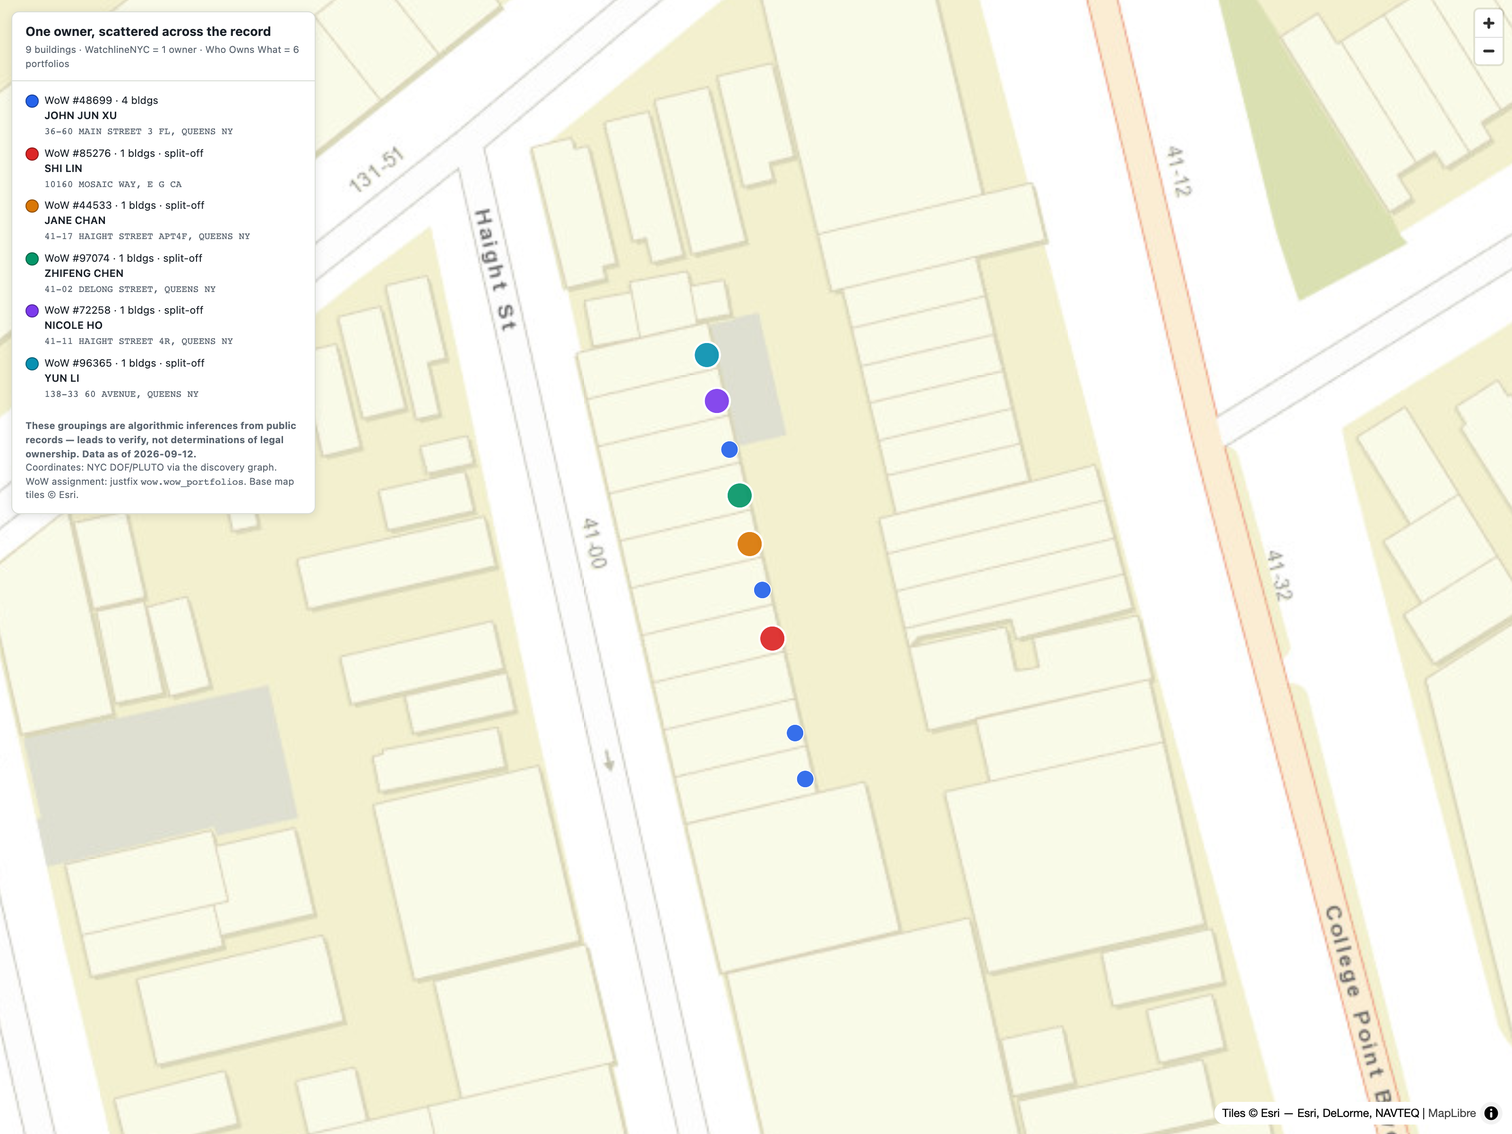
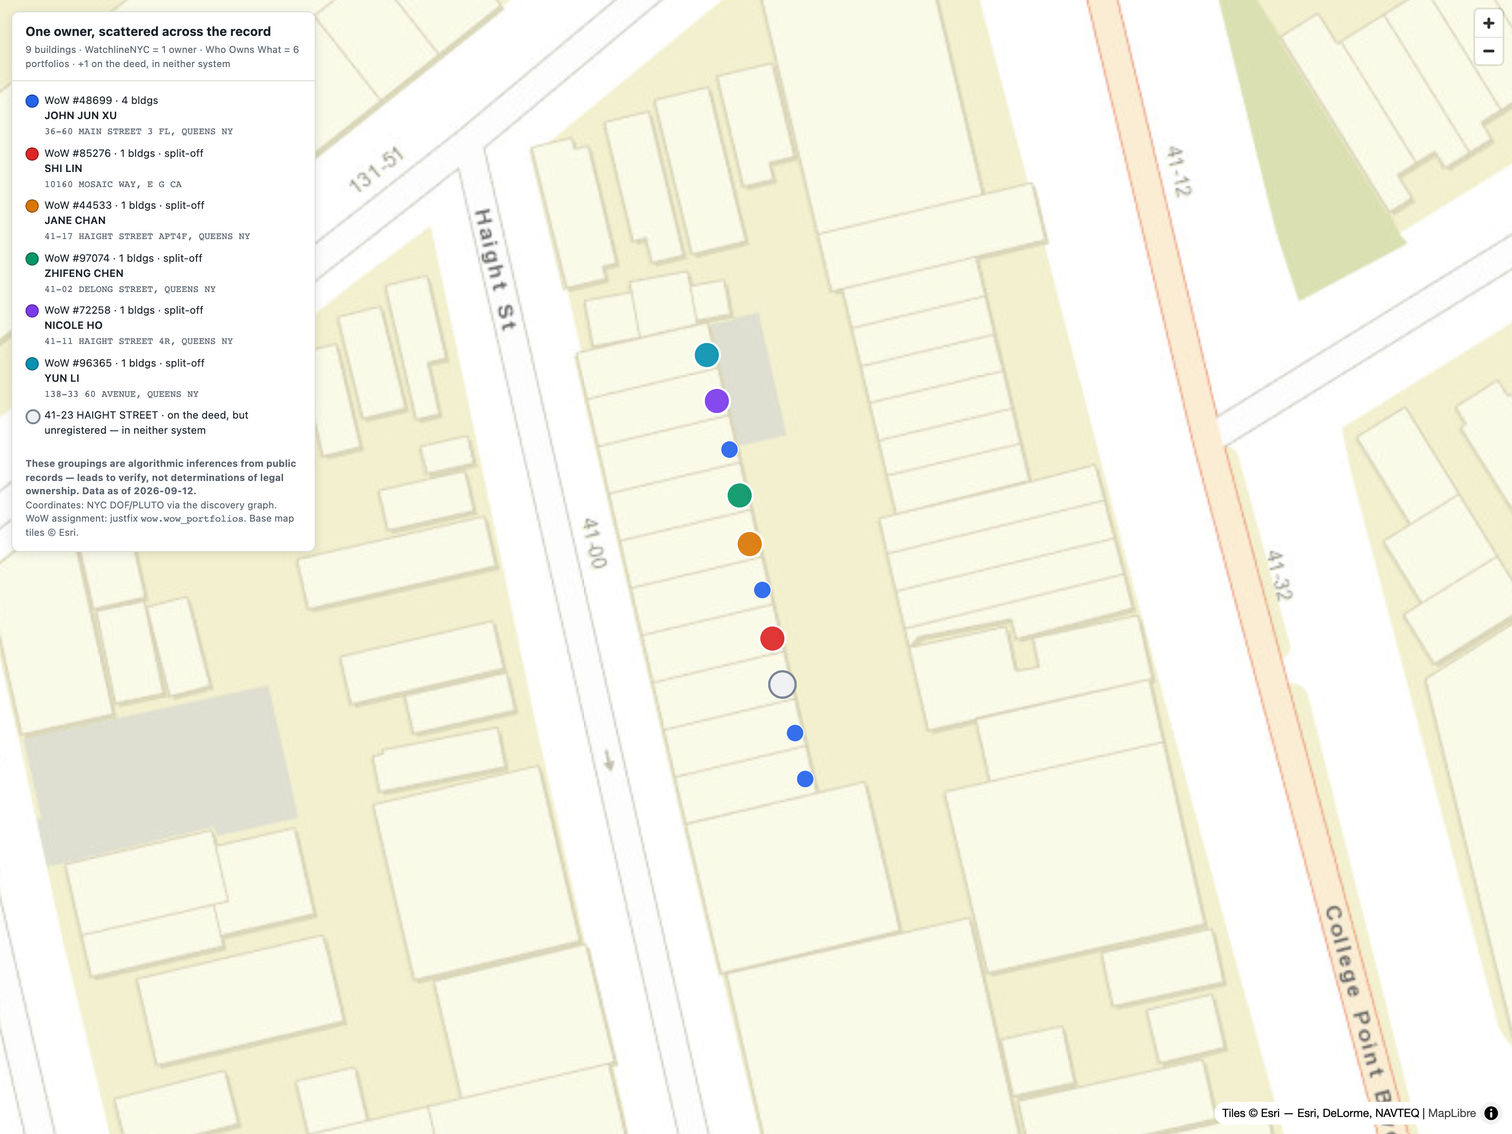
docs: correct Haight to 10 townhouses (9 reunited) + show the recall miss on the map
The 2020 bulk deed conveyed TEN parcels, not nine — the earlier count came
from a fixed 9-bbl list that had already omitted lot 47. Corrections across
the case page, the deck demo slide, and the map: the deed = 10 townhouses
/ $18.6M; Watchline reunites 9 of 10; the 10th (41-23) is unregistered, so
it has no landlord node for the deed link to attach to and slips through
BOTH systems. The regenerated map overlays 41-23 as a ghosted "in neither
system" dot mid-row. Common ownership stays an inference — a lead, not a
verdict.

Changed region(s): [[0.0, 0.3438, 0.2188, 0.5], [0.5, 0.5938, 0.5312, 0.625]]

diff --git a/docs/maps/haight.html b/docs/maps/haight.html
@@ -33,7 +33,7 @@
 <body>
 <div id="map"></div>
 <div class="card">
-  <h1>One owner, scattered across the record<small>9 buildings · WatchlineNYC = 1 owner · Who Owns What = 6 portfolios</small></h1>
+  <h1>One owner, scattered across the record<small>9 buildings · WatchlineNYC = 1 owner · Who Owns What = 6 portfolios · +1 on the deed, in neither system</small></h1>
   <div class="toggle">
     <button id="b-wl" class="on" onclick="setView('wl')">WatchlineNYC</button>
     <button id="b-wow" onclick="setView('wow')">Who Owns What</button>
@@ -43,14 +43,17 @@
     WoW assignment: justfix <code>wow.wow_portfolios</code>. Base map tiles © Esri.</div>
 </div>
 <script>
-const DATA = {"type": "FeatureCollection", "features": [{"type": "Feature", "geometry": {"type": "Point", "coordinates": [-73.833991, 40.7551451]}, "properties": {"bbl": "4050630045", "address": "41-27 HAIGHT STREET", "bldgclass": "S4", "units": 4, "year": 2015, "owner": "41 HAIGHT STREET TOWNHOUSE OWNER, LLC", "officer": "JOHN JUN XU", "bizaddr": "3660 MAIN STREET 3FLOOR, Flushing NY 11354", "wow_pf": "48699", "wow_color": "#2563eb", "stray": false}}, {"type": "Feature", "geometry": {"type": "Point", "coordinates": [-73.8340054, 40.7551945]}, "properties": {"bbl": "4050630046", "address": "41-25 HAIGHT STREET", "bldgclass": "S4", "units": 4, "year": 2015, "owner": "41 HAIGHT GROUP LLC", "officer": "JOHN JUN XU", "bizaddr": "3660 MAIN STREET 3FLOOR, Flushing NY 11354", "wow_pf": "48699", "wow_color": "#2563eb", "stray": false}}, {"type": "Feature", "geometry": {"type": "Point", "coordinates": [-73.8340376, 40.7552961]}, "properties": {"bbl": "4050630048", "address": "41-21 HAIGHT STREET", "bldgclass": "S4", "units": 4, "year": 2015, "owner": "888 HAIGHT LLC", "officer": "Shi Lin", "bizaddr": "10160 MOSAIC WAY, Elk Grove CA 95757", "wow_pf": "85276", "wow_color": "#dc2626", "stray": true}}, {"type": "Feature", "geometry": {"type": "Point", "coordinates": [-73.8340519, 40.7553483]}, "properties": {"bbl": "4050630049", "address": "41-19 HAIGHT STREET", "bldgclass": "S4", "units": 4, "year": 2015, "owner": "41-19 LIYANG INC.", "officer": "JOHN JUN XU", "bizaddr": "3660 MAIN STREET 3FLOOR, Flushing NY 11354", "wow_pf": "48699", "wow_color": "#2563eb", "stray": false}}, {"type": "Feature", "geometry": {"type": "Point", "coordinates": [-73.8340698, 40.7553977]}, "properties": {"bbl": "4050630050", "address": "41-17 HAIGHT STREET", "bldgclass": "S4", "units": 4, "year": 2015, "owner": "C & L 17 FAMILY LLC", "officer": "Jane Chan", "bizaddr": "41-17 HAIGHT STREET APT4F, Flushing NY 11355", "wow_pf": "44533", "wow_color": "#d97706", "stray": true}}, {"type": "Feature", "geometry": {"type": "Point", "coordinates": [-73.8340841, 40.7554499]}, "properties": {"bbl": "4050630051", "address": "41-15 HAIGHT STREET", "bldgclass": "S4", "units": 4, "year": 2015, "owner": "4115 HAIGHT ST INC.", "officer": "ZHIFENG CHEN", "bizaddr": "41-02 DELONG STREET, FLUSHINg NY 11355", "wow_pf": "97074", "wow_color": "#059669", "stray": true}}, {"type": "Feature", "geometry": {"type": "Point", "coordinates": [-73.8340984, 40.7554993]}, "properties": {"bbl": "4050630052", "address": "41-13 HAIGHT STREET", "bldgclass": "S4", "units": 4, "year": 2015, "owner": "AVERY AVENUE 168 LLC", "officer": "JOHN JUN XU", "bizaddr": "3660 MAIN STREET 3FLOOR, Flushing NY 11354", "wow_pf": "48699", "wow_color": "#2563eb", "stray": false}}, {"type": "Feature", "geometry": {"type": "Point", "coordinates": [-73.8341164, 40.7555515]}, "properties": {"bbl": "4050630053", "address": "41-11 HAIGHT STREET", "bldgclass": "S4", "units": 4, "year": 2015, "owner": "HT ELEVEN REALTY LLC", "officer": "NICOLE HO", "bizaddr": "41-11 HAIGHT STREET 4R, Flushing NY 11355", "wow_pf": "72258", "wow_color": "#7c3aed", "stray": true}}, {"type": "Feature", "geometry": {"type": "Point", "coordinates": [-73.8341307, 40.7556009]}, "properties": {"bbl": "4050630055", "address": "41-09 HAIGHT STREET", "bldgclass": "S4", "units": 4, "year": 2015, "owner": "NEW YUN REALTY LLC", "officer": "YUN LI", "bizaddr": "13833 60TH AVENUE, Flushing NY 11355", "wow_pf": "96365", "wow_color": "#0891b2", "stray": true}}]};
+const DATA = {"type": "FeatureCollection", "features": [{"type": "Feature", "geometry": {"type": "Point", "coordinates": [-73.833991, 40.7551451]}, "properties": {"bbl": "4050630045", "address": "41-27 HAIGHT STREET", "bldgclass": "S4", "units": 4, "year": 2015, "owner": "41 HAIGHT STREET TOWNHOUSE OWNER, LLC", "officer": "JOHN JUN XU", "bizaddr": "3660 MAIN STREET 3FLOOR, Flushing NY 11354", "wow_pf": "48699", "wow_color": "#2563eb", "stray": false, "flagged": false, "flag_note": ""}}, {"type": "Feature", "geometry": {"type": "Point", "coordinates": [-73.8340054, 40.7551945]}, "properties": {"bbl": "4050630046", "address": "41-25 HAIGHT STREET", "bldgclass": "S4", "units": 4, "year": 2015, "owner": "41 HAIGHT GROUP LLC", "officer": "JOHN JUN XU", "bizaddr": "3660 MAIN STREET 3FLOOR, Flushing NY 11354", "wow_pf": "48699", "wow_color": "#2563eb", "stray": false, "flagged": false, "flag_note": ""}}, {"type": "Feature", "geometry": {"type": "Point", "coordinates": [-73.8340376, 40.7552961]}, "properties": {"bbl": "4050630048", "address": "41-21 HAIGHT STREET", "bldgclass": "S4", "units": 4, "year": 2015, "owner": "888 HAIGHT LLC", "officer": "Shi Lin", "bizaddr": "10160 MOSAIC WAY, Elk Grove CA 95757", "wow_pf": "85276", "wow_color": "#dc2626", "stray": true, "flagged": false, "flag_note": ""}}, {"type": "Feature", "geometry": {"type": "Point", "coordinates": [-73.8340519, 40.7553483]}, "properties": {"bbl": "4050630049", "address": "41-19 HAIGHT STREET", "bldgclass": "S4", "units": 4, "year": 2015, "owner": "41-19 LIYANG INC.", "officer": "JOHN JUN XU", "bizaddr": "3660 MAIN STREET 3FLOOR, Flushing NY 11354", "wow_pf": "48699", "wow_color": "#2563eb", "stray": false, "flagged": false, "flag_note": ""}}, {"type": "Feature", "geometry": {"type": "Point", "coordinates": [-73.8340698, 40.7553977]}, "properties": {"bbl": "4050630050", "address": "41-17 HAIGHT STREET", "bldgclass": "S4", "units": 4, "year": 2015, "owner": "C & L 17 FAMILY LLC", "officer": "Jane Chan", "bizaddr": "41-17 HAIGHT STREET APT4F, Flushing NY 11355", "wow_pf": "44533", "wow_color": "#d97706", "stray": true, "flagged": false, "flag_note": ""}}, {"type": "Feature", "geometry": {"type": "Point", "coordinates": [-73.8340841, 40.7554499]}, "properties": {"bbl": "4050630051", "address": "41-15 HAIGHT STREET", "bldgclass": "S4", "units": 4, "year": 2015, "owner": "4115 HAIGHT ST INC.", "officer": "ZHIFENG CHEN", "bizaddr": "41-02 DELONG STREET, FLUSHINg NY 11355", "wow_pf": "97074", "wow_color": "#059669", "stray": true, "flagged": false, "flag_note": ""}}, {"type": "Feature", "geometry": {"type": "Point", "coordinates": [-73.8340984, 40.7554993]}, "properties": {"bbl": "4050630052", "address": "41-13 HAIGHT STREET", "bldgclass": "S4", "units": 4, "year": 2015, "owner": "AVERY AVENUE 168 LLC", "officer": "JOHN JUN XU", "bizaddr": "3660 MAIN STREET 3FLOOR, Flushing NY 11354", "wow_pf": "48699", "wow_color": "#2563eb", "stray": false, "flagged": false, "flag_note": ""}}, {"type": "Feature", "geometry": {"type": "Point", "coordinates": [-73.8341164, 40.7555515]}, "properties": {"bbl": "4050630053", "address": "41-11 HAIGHT STREET", "bldgclass": "S4", "units": 4, "year": 2015, "owner": "HT ELEVEN REALTY LLC", "officer": "NICOLE HO", "bizaddr": "41-11 HAIGHT STREET 4R, Flushing NY 11355", "wow_pf": "72258", "wow_color": "#7c3aed", "stray": true, "flagged": false, "flag_note": ""}}, {"type": "Feature", "geometry": {"type": "Point", "coordinates": [-73.8341307, 40.7556009]}, "properties": {"bbl": "4050630055", "address": "41-09 HAIGHT STREET", "bldgclass": "S4", "units": 4, "year": 2015, "owner": "NEW YUN REALTY LLC", "officer": "YUN LI", "bizaddr": "13833 60TH AVENUE, Flushing NY 11355", "wow_pf": "96365", "wow_color": "#0891b2", "stray": true, "flagged": false, "flag_note": ""}}, {"type": "Feature", "geometry": {"type": "Point", "coordinates": [-73.8340233, 40.7552467]}, "properties": {"bbl": "4050630047", "address": "41-23 HAIGHT STREET", "bldgclass": "S4", "units": 4, "year": 2015, "owner": "41-23 L&Y INC.", "officer": "\u2014", "bizaddr": "\u2014", "wow_pf": "\u2014", "wow_color": "#9ca3af", "stray": true, "flagged": true, "flag_note": "on the deed, but unregistered \u2014 in neither system"}}]};
 const WL_COLOR = "#2563eb";
-const LEGEND = {wl: `<div class="row"><span class="dot" style="background:#2563eb"></span>One owner · 9 buildings</div>`, wow: `<div class="row"><span class="dot" style="background:#2563eb"></span>WoW #48699 · 4 bldgs<br><span class="nm">JOHN JUN XU</span><br><span class="addr">36-60 MAIN STREET 3 FL, QUEENS NY</span></div>
+const FLAG_FILL = "#eef0f3", FLAG_STROKE = "#7a8595";   // context-only buildings (in neither system)
+const LEGEND = {wl: `<div class="row"><span class="dot" style="background:#2563eb"></span>One owner · 9 buildings</div>
+<div class="row"><span class="dot" style="background:#eef0f3;border:2px solid #7a8595"></span>41-23 HAIGHT STREET · on the deed, but unregistered — in neither system</div>`, wow: `<div class="row"><span class="dot" style="background:#2563eb"></span>WoW #48699 · 4 bldgs<br><span class="nm">JOHN JUN XU</span><br><span class="addr">36-60 MAIN STREET 3 FL, QUEENS NY</span></div>
 <div class="row"><span class="dot" style="background:#dc2626"></span>WoW #85276 · 1 bldgs · split-off<br><span class="nm">SHI LIN</span><br><span class="addr">10160 MOSAIC WAY, E G CA</span></div>
 <div class="row"><span class="dot" style="background:#d97706"></span>WoW #44533 · 1 bldgs · split-off<br><span class="nm">JANE CHAN</span><br><span class="addr">41-17 HAIGHT STREET APT4F, QUEENS NY</span></div>
 <div class="row"><span class="dot" style="background:#059669"></span>WoW #97074 · 1 bldgs · split-off<br><span class="nm">ZHIFENG CHEN</span><br><span class="addr">41-02 DELONG STREET, QUEENS NY</span></div>
 <div class="row"><span class="dot" style="background:#7c3aed"></span>WoW #72258 · 1 bldgs · split-off<br><span class="nm">NICOLE HO</span><br><span class="addr">41-11 HAIGHT STREET 4R, QUEENS NY</span></div>
-<div class="row"><span class="dot" style="background:#0891b2"></span>WoW #96365 · 1 bldgs · split-off<br><span class="nm">YUN LI</span><br><span class="addr">138-33 60 AVENUE, QUEENS NY</span></div>`};
+<div class="row"><span class="dot" style="background:#0891b2"></span>WoW #96365 · 1 bldgs · split-off<br><span class="nm">YUN LI</span><br><span class="addr">138-33 60 AVENUE, QUEENS NY</span></div>
+<div class="row"><span class="dot" style="background:#eef0f3;border:2px solid #7a8595"></span>41-23 HAIGHT STREET · on the deed, but unregistered — in neither system</div>`};
 const DEFAULT_VIEW = "wl";   // which view opens first: "wl" (single) or "wow" (split)
 
 const map = new maplibregl.Map({
@@ -64,14 +67,16 @@ function setView(v){
   document.getElementById("b-wl").classList.toggle("on", v==="wl");
   document.getElementById("b-wow").classList.toggle("on", v==="wow");
   document.getElementById("legend").innerHTML = LEGEND[v];
-  const color = v==="wl" ? WL_COLOR : ["get","wow_color"];
+  const base = v==="wl" ? WL_COLOR : ["get","wow_color"];
+  const color = ["case",["get","flagged"], FLAG_FILL, base];
   const radius = v==="wow"
     ? ["interpolate",["linear"],["zoom"], 10,["case",["get","stray"],7,5], 15,["case",["get","stray"],13,9]]
     : ["interpolate",["linear"],["zoom"], 10,5, 15,9];
-  const stroke = v==="wow" ? ["case",["get","stray"],2.2,1] : 1;
+  const stroke = ["case",["get","flagged"],2.4, (v==="wow" ? ["case",["get","stray"],2.2,1] : 1)];
   map.setPaintProperty("pts","circle-color",color);
   map.setPaintProperty("pts","circle-radius",radius);
   map.setPaintProperty("pts","circle-stroke-width",stroke);
+  map.setPaintProperty("pts","circle-stroke-color",["case",["get","flagged"], FLAG_STROKE, "#fff"]);
 }
 
 map.on("load", ()=>{
@@ -91,14 +96,18 @@ map.on("load", ()=>{
   map.on("mousemove","pts",e=>{
     map.getCanvas().style.cursor="pointer";
     const p = e.features[0].properties;
+    const flagged = (p.flagged===true||p.flagged==="true");
     const stray = (p.stray===true||p.stray==="true") ? ' <span class="tag">split-off</span>' : '';
+    const lastRow = flagged
+      ? `<div class="mrow" style="color:#7a8595">${p.flag_note}</div>`
+      : `<div class="mrow">WoW portfolio: ${p.wow_pf}${stray}</div>`;
     tip.setLngLat(e.lngLat).setHTML(
       `<b>${p.address}</b><br><span class="pp">BBL ${p.bbl}</span>`+
       `<div class="mrow">class ${p.bldgclass} · ${p.units} res units · built ${p.year}</div>`+
       `<div class="mrow">PLUTO owner: ${p.owner}</div>`+
       `<div class="mrow">HPD head officer: ${p.officer}</div>`+
       `<div class="mrow">Business addr: <span class="pp">${p.bizaddr}</span></div>`+
-      `<div class="mrow">WoW portfolio: ${p.wow_pf}${stray}</div>`
+      lastRow
     ).addTo(map);
   });
   map.on("mouseleave","pts",()=>{map.getCanvas().style.cursor=""; tip.remove();});

diff --git a/docs/meetup/index.html b/docs/meetup/index.html
@@ -993,30 +993,33 @@
         </div>
         <div style="display:flex;gap:18px;align-items:stretch;margin:.2em 0 .35em">
           <img src="haight-map.png"
-            alt="Map of nine adjacent townhouses on one block of Haight Street, Queens — each a colored dot; Who Owns What paints the single contiguous row in six colors (six separate owners)"
+            alt="Map of ten adjacent townhouses on one block of Haight Street, Queens — each a dot; Who Owns What paints nine of them in six colors (six separate owners), and the missed tenth, 41-23, shows as a hollow ghost dot mid-row"
             style="height:396px;width:auto;max-width:58%;border:1px solid var(--line);border-radius:8px;">
           <div class="card" style="border-top:5px solid var(--gold);flex:1">
             <div class="cl" style="color:var(--gold)">Six colors, one row → one owner</div>
             <ul class="tight" style="margin-top:.35em">
-              <li>Who Owns What paints one contiguous row of identical townhouses in <strong>six colors</strong>: <strong>Chan · Xu · Ho · Lin · Li · Chen</strong> — six head officers, <strong>nine</strong> owner-LLCs, nothing shared.</li>
-              <li><strong>One deed, 2020</strong> — a Chapter 11 trustee sold all <strong>9 townhouses</strong> for <strong>$18.6M</strong> to a single buyer, who then re-deeded each into a <strong>single-purpose shell</strong>.</li>
-              <li>Watchline reunites them — <strong>one owner group, 9 buildings</strong> (<code>CONNECTED_BY_DEED</code>) — from evidence WoW never reads.</li>
+              <li>Who Owns What paints one contiguous row of identical townhouses in <strong>six colors</strong>: <strong>Chan · Xu · Ho · Lin · Li · Chen</strong> — six head officers, nine owner-LLCs, nothing shared.</li>
+              <li><strong>One deed, 2020</strong> — a Chapter 11 trustee sold all <strong>10 townhouses</strong> for <strong>$18.6M</strong> to a single buyer, who then re-deeded them into <strong>single-purpose shells</strong>.</li>
+              <li>Watchline reunites <strong>9 of the 10</strong> into one owner group (<code>CONNECTED_BY_DEED</code>). The <strong>10th (41-23)</strong> is unregistered → in <em>neither</em> system (the ghost dot).</li>
             </ul>
           </div>
         </div>
         <div class="pull" style="font-size:.8em">Here WoW isn't wrong — it's <strong>blind</strong>: the only tie is a transaction, and it reads no deeds. <span style="color:var(--muted)">Common ownership is <strong>inferred from the deed record — a lead to verify, not a determination.</strong></span></div>
-        <span class="src">Owner group <code>OG-51705</code> · deed <code>2020092500293001</code> ($18.6M · 9 parcels · Ch. 11 sale) · composition <code>deed_only</code>. See <code>specs/case-haight.md</code>.</span>
-        <aside class="notes">My sharpest backup for "what does this do that Who Owns What can't?" A block of nine
-          identical townhouses on Haight Street in Flushing. Who Owns What reads six separate owners — six different
-          people on the registrations, nine different owner LLCs on the tax roll — nothing it links on is shared, so
-          it splits the block six ways. But pull the deed record: in 2020 a bankruptcy trustee sold the entire row —
-          all nine — on ONE deed, for $18.6 million, to a single buyer. That buyer then re-deeded the parcels one at a
-          time into single-purpose LLCs — buy together, then scatter the title. Watchline reunites all nine into one
-          owner group, and the tie is pure deed — no name, no address. This is the case WoW can't reach even in
-          principle: it uses no deed data, and no registration snapshot can say "these were one purchase two years
-          ago." Say the honest limit out loud: shared origin and a consistent re-deeding pattern are strong
-          common-control signals, but the onward sales carry real prices — so this is a lead to verify, not a verdict
-          that names one owner. That's the whole ethos in one slide.</aside>
+        <span class="src">Owner group <code>OG-51705</code> · deed <code>2020092500293001</code> ($18.6M · <strong>10 parcels</strong> · Ch. 11 sale) · composition <code>deed_only</code> · 9 of 10 reunited. See <code>specs/case-haight.md</code>.</span>
+        <aside class="notes">My sharpest backup for "what does this do that Who Owns What can't?" A block of ten
+          identical townhouses on Haight Street in Flushing. Who Owns What reads the registered ones as six separate
+          owners — six different people on the registrations, nine different owner LLCs on the tax roll — nothing it
+          links on is shared, so it splits the block six ways. But pull the deed record: in 2020 a bankruptcy trustee
+          sold the entire row — all ten — on ONE deed, for $18.6 million, to a single buyer, who then re-deeded them
+          one at a time into single-purpose LLCs: buy together, then scatter the title. Watchline reunites nine of the
+          ten into one owner group, and the tie is pure deed — no name, no address. This is the case WoW can't reach
+          even in principle: it uses no deed data, and no registration snapshot can say "these were one purchase two
+          years ago." Then the honesty beat — point at the ghost dot: the tenth townhouse, 41-23, is on the same deed
+          but has NO HPD registration at all, so there's no landlord record for the deed link to hang on — it falls
+          through my system AND Who Owns What. I show the miss on purpose: precision-first, with a real recall limit,
+          not magic. And the whole thing is a lead to verify — shared origin and a consistent re-deeding pattern are
+          strong signals, but the onward sales carry real prices, so it points an investigator at a question; it
+          doesn't name one owner. That's the ethos in one slide.</aside>
       </section>
 
       <!-- BACKUP — likely pushback (SQL / AI) -->

diff --git a/docs/cases/index.html b/docs/cases/index.html
@@ -200,23 +200,31 @@
 <!-- HAIGHT -->
 <h2 id="haight">4 · One block, six owners, one deed <span class="tag merge">merge · deed</span><span class="rule"></span></h2>
 <div class="case">
-  <p>Nine identical 4-unit townhouses on one Flushing block (41-09 → 41-27 Haight Street, Queens). Who
-    Owns What reads them as <b>six separate owners</b> — six registration head officers (Chan, Xu, Ho,
-    Lin, Li, Chen) and <b>nine</b> different DOF owner-of-record LLCs. Nothing it keys on is shared, so
-    it splits the block six ways. Watchline reunites all nine into <b>one owner group</b> — on evidence
-    Who Owns What never reads.</p>
+  <p><b>Ten</b> identical 4-unit townhouses on one Flushing block (41-09 → 41-27 Haight Street, Queens),
+    bought together on a single deed. Who Owns What reads the registered ones as <b>six separate
+    owners</b> — six head officers (Chan, Xu, Ho, Lin, Li, Chen), nine different DOF owner-LLCs — because
+    nothing it keys on is shared, so it splits the block six ways. Watchline reunites <b>nine of the
+    ten</b> into <b>one owner group</b>, on evidence Who Owns What never reads. (The tenth, 41-23, is
+    unregistered and slips through both — see below.)</p>
   <table><thead><tr><th></th><th>Grouping</th><th>What connects them</th></tr></thead><tbody>
-    <tr><td class="k">Who Owns What</td><td>6 portfolios · 6 names · 9 LLCs</td><td>nothing it can see</td></tr>
-    <tr><td class="k">WatchlineNYC</td><td>1 owner group · 9 buildings</td><td>a single ACRIS deed</td></tr>
+    <tr><td class="k">Who Owns What</td><td>6 portfolios over 9 buildings</td><td>nothing it can see</td></tr>
+    <tr><td class="k">WatchlineNYC</td><td>1 owner group · 9 of the 10</td><td>a single ACRIS deed</td></tr>
   </tbody></table>
   <p>The tie is a transaction. In <b>2020</b> a Chapter 11 bankruptcy trustee sold the entire row —
-    <b>all nine parcels on one deed</b> <span class="badge s">sourced</span> — for <b>$18.6M</b> to a
-    single buyer, <code>41 Haight Street Townhouse Owner, LLC</code>. That buyer then re-deeded seven of
+    <b>all ten parcels on one deed</b> <span class="badge s">sourced</span> — for <b>$18.6M</b> to a
+    single buyer, <code>41 Haight Street Townhouse Owner, LLC</code>. That buyer then re-deeded eight of
     the parcels, one at a time, into <b>single-purpose shells</b> (one was never moved). Watchline's
     <code>CONNECTED_BY_DEED</code> veil-pierce <span class="badge i">inferred</span> recovers the common
     origin the re-titling obscured. <b>Layer:</b> owner identity, read from the deed record. Explore the
     <a href="../maps/haight.html">interactive map</a> — one row of identical townhouses that Who Owns
-    What paints in <b>six colors</b> (toggle Watchline's one owner ↔ WoW's six).</p>
+    What paints in <b>six colors</b>, with the missed tenth shown as a ghost dot (toggle Watchline's one
+    owner ↔ WoW's six).</p>
+  <p style="font-size:.92rem;color:var(--muted)"><b style="color:var(--inferred)">The honest miss:</b>
+    the tenth townhouse, <b>41-23</b>, was on the same deed and re-deeded from the same parent — but it
+    has <b>no HPD registration at all</b>, so it has no landlord record for the deed link to attach to.
+    That blinds Who Owns What too (it's registration-based), so 41-23 sits in <em>neither</em> system —
+    unregistered and shell-titled, visible only in the deed. A precision-first tool with a real recall
+    limit, shown, not hidden.</p>
   <div class="takeaway">Here Who Owns What isn't wrong — it's <b>blind</b>: the only tie is a transaction,
     and it reads no deeds. <span style="color:var(--faint)">A shared 2020 origin and a consistent
     re-deeding-from-the-parent pattern are strong common-control signals — a lead to verify, not proof of
